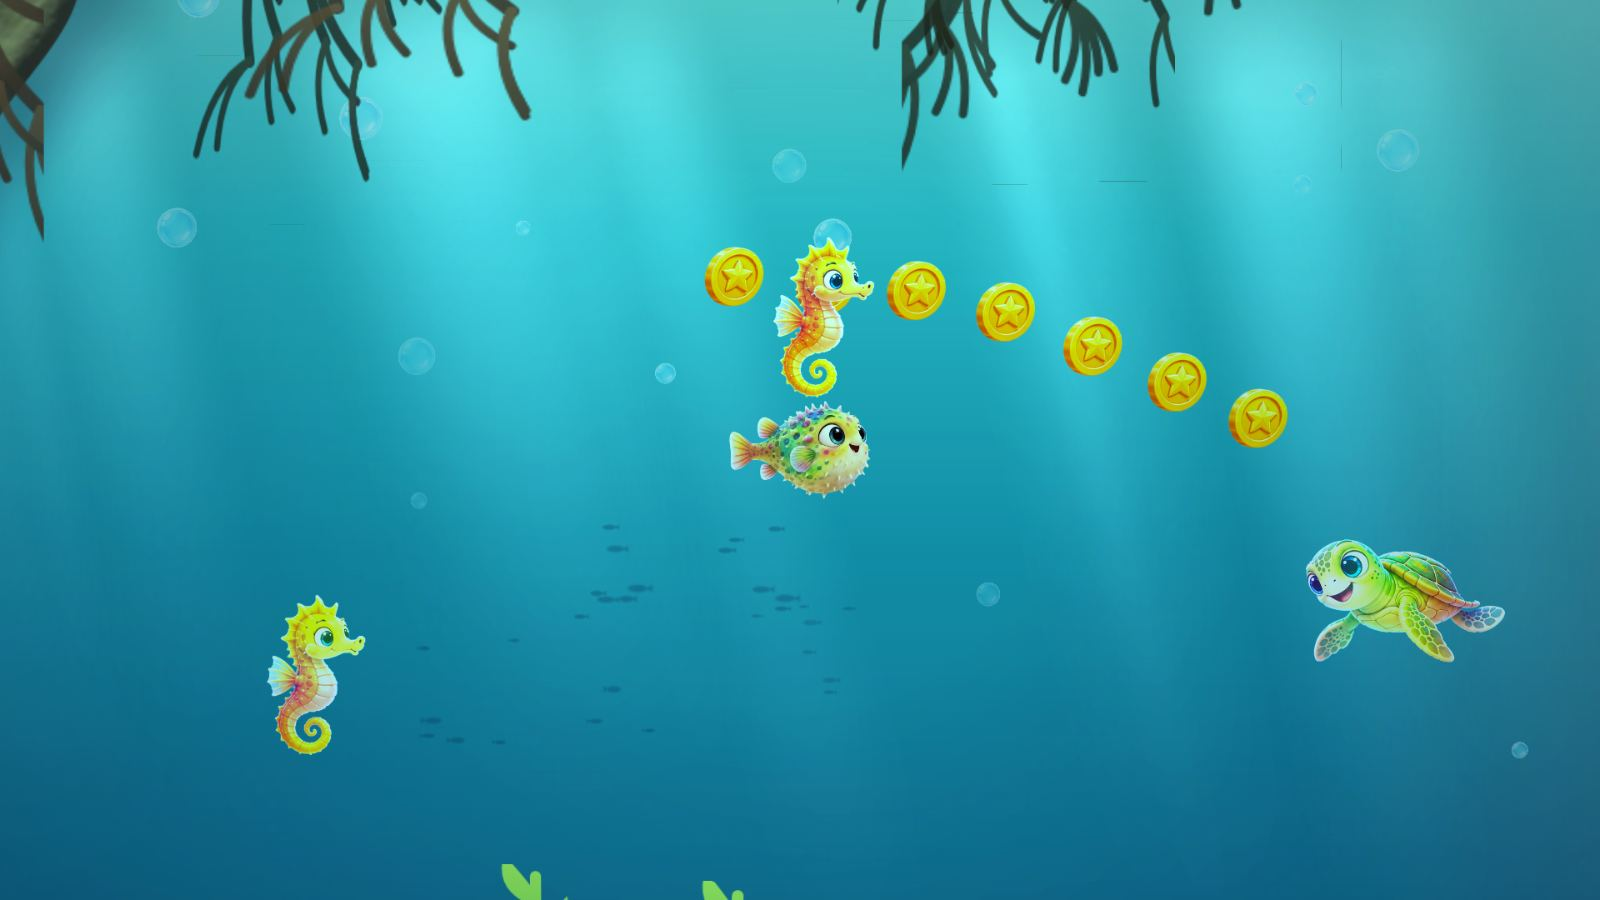
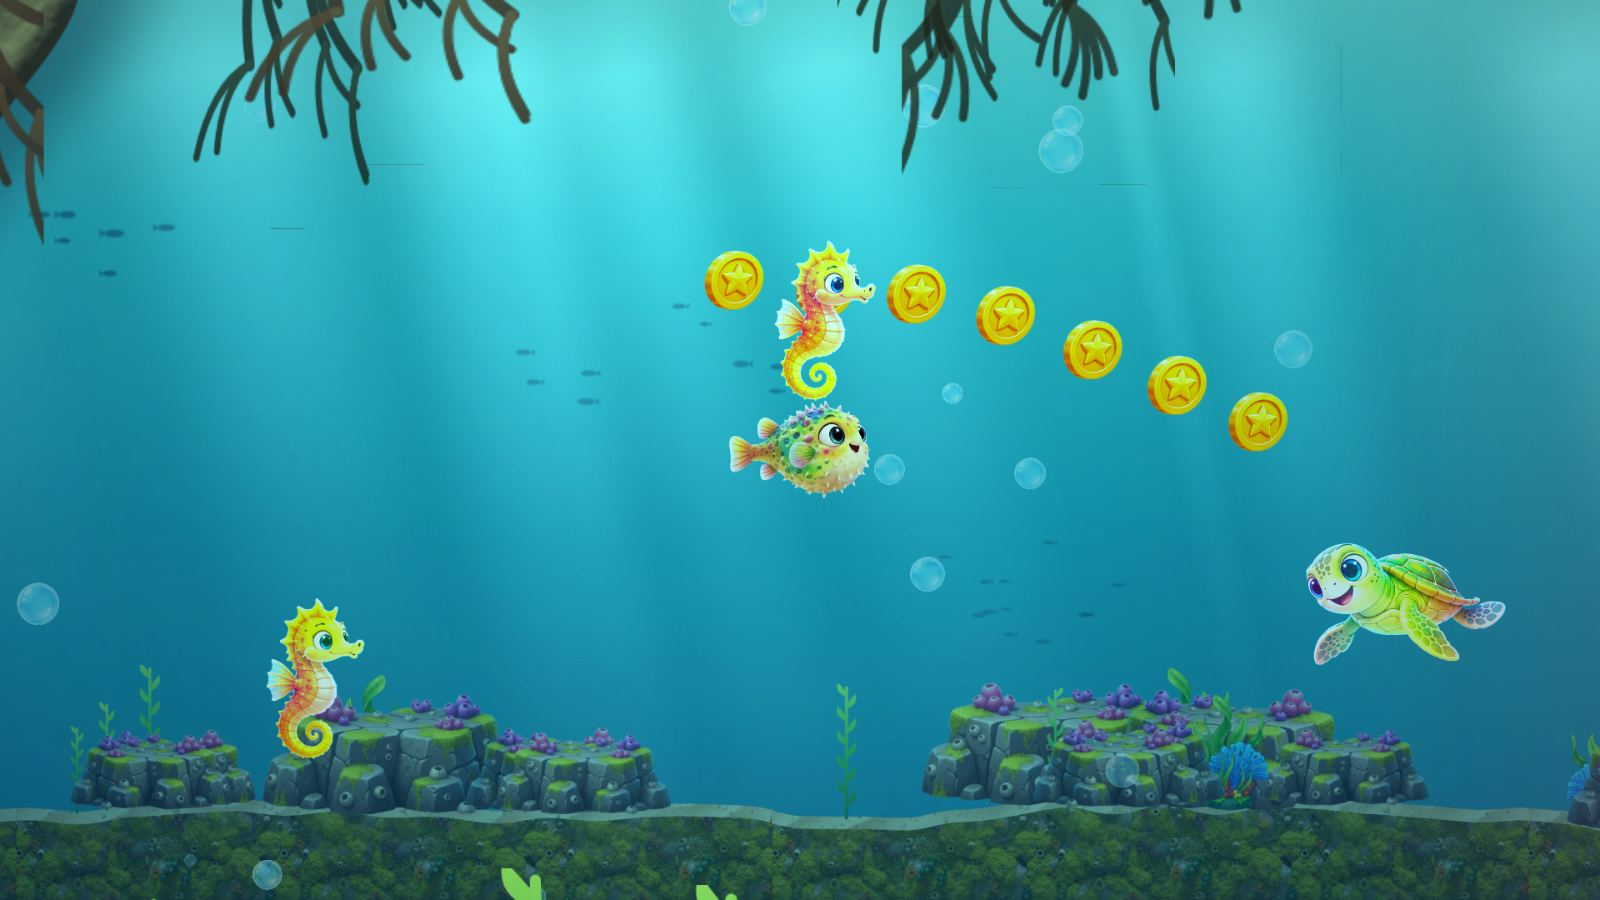
Midground from the painted art: mid reef and back-play layers of real coral, rock and kelp on textured ground (spec 10.10)

diff --git a/game/level/MidLayers.js b/game/level/MidLayers.js
@@ -1,0 +1,161 @@
+import Phaser from 'phaser';
+import { biomeBlendAt, floorY } from './biomes.js';
+import { MID_LAYERS } from './backLayersTable.js';
+import { layerGroundY, groundLine, mix, rng } from './backLayersMath.js';
+import { sunlightAt } from '../fx/causticsMath.js';
+import { makeFade } from './BackLayers.js';
+
+/**
+ * Midground (spec 10.10 "mid reef" 0.5 and "back play" 0.8): a reef behind the play plane
+ * built from the game's own painted art, so it looks like the same world further away —
+ * the rock and sand textures for the ground, the coral, rock and kelp sprites standing on
+ * it — never drawn primitives.
+ *
+ * Baked once per 1024-px chunk of layer space (seeded, so the same place always looks the
+ * same), placed as plain images that slide at the layer's parallax; at most one chunk is
+ * baked per frame. Decor is only placed where it fits inside its chunk (no cut-off
+ * sprites), the ground line is one continuous curve across chunks, and each chunk's ground
+ * fades out at the bottom (no slabs). Fogged toward the biome's water colour by tint.
+ *
+ *   create():  this.midLayers = new MidLayers(this)
+ *   update():  this.midLayers.update(camX, camY)
+ */
+const CW = 1024, CHT = 512;          // chunk texture size (layer px)
+const SEA = 0x2a9fc8, SUNLIT = 0x6ad9f2, DEEP = 0x04122e;
+
+// What stands on the ground per biome: [texture key, weight, scale factor].
+const DECOR = {
+    beach: [['coral_2', 2, 0.8], ['coral_3', 2, 0.8], ['rock_1', 3, 0.6]],
+    reef: [['coral_1', 4, 1], ['coral_2', 4, 1], ['coral_3', 3, 0.95], ['rock_1', 2, 0.8], ['kelp', 1, 1.1]],
+    mangrove: [['kelp', 3, 0.8], ['coral_3', 2, 0.8], ['rock_1', 3, 0.7]],
+    kelp: [['kelp', 9, 1.4], ['rock_1', 2, 0.8], ['coral_3', 1, 0.8]],
+    blue: [['rock_1', 3, 0.9], ['coral_1', 1, 0.8]],
+    wreck: [['rock_1', 4, 0.9], ['kelp', 2, 0.9], ['coral_2', 1, 0.8]],
+    harbour: [['rock_1', 4, 0.9], ['kelp', 2, 0.8]],
+    trench: [['rock_1', 3, 0.9], ['coral_3', 1, 0.7]]
+};
+
+export default class MidLayers {
+    constructor(scene) {
+        this.scene = scene;
+        makeFade(scene);
+        this.layers = MID_LAYERS.filter(l => l.strength > 0).map(def => ({ def, chunks: new Map() }));
+    }
+
+    update(camX, camY) {
+        const scene = this.scene, W = scene.scale.width, H = scene.scale.height;
+        const cx = camX + W / 2;
+        const floor = floorY(cx);
+        const light = sunlightAt(camY + H * 0.5);
+        const deepAmount = Phaser.Math.Clamp((camY + H / 2 - 2200) / 3400, 0, 1) * 0.7;
+        let bakedThisFrame = false;
+
+        for (const l of this.layers) {
+            const d = l.def;
+            const h = H * d.height, s = h / CHT, cwS = CW * s;        // display size of a chunk
+            const lx = camX * d.scroll;                                 // layer-space camera
+            const i0 = Math.floor(lx / cwS) - 1, i1 = Math.floor((lx + W) / cwS) + 1;
+            for (const [i, c] of l.chunks) {                            // drop chunks far off screen
+                if (i < i0 - 1 || i > i1 + 1) { c.img.destroy(); c.fade.destroy(); scene.textures.remove(c.key); l.chunks.delete(i); }
+            }
+            const ground = layerGroundY({ camY, H, floor, scroll: d.scroll, vscroll: d.vscroll, rise: d.rise, surfaceGap: 220 });
+            for (let i = i0; i <= i1; i++) {
+                let c = l.chunks.get(i);
+                if (!c) {
+                    if (bakedThisFrame) continue;                       // spread baking over frames
+                    c = this.makeChunk(l, i, s, d);
+                    l.chunks.set(i, c);
+                    bakedThisFrame = true;
+                }
+                const x = i * cwS - lx;
+                const fogTo = mix(mix(SEA, c.biome.water[0], Math.min(1, c.biome.water[1] * 2)), SUNLIT, light * 0.45);
+                // Fog = the water showing through (alpha) plus a gentle shift toward its colour
+                // (tint alone can only darken, never wash out toward the water).
+                const tint = mix(mix(0xffffff, fogTo, d.fog * 0.5), DEEP, deepAmount);
+                const alpha = d.strength * (1 - d.fog * 0.6);
+                const bottom = ground + h * 0.32;
+                c.img.setPosition(x, bottom).setDisplaySize(cwS + 1, h).setTint(tint).setAlpha(alpha);
+                c.fade.setPosition(x, bottom - 2).setDisplaySize(cwS + 1, H * 0.3).setTint(mix(mix(0x6a5e52, fogTo, d.fog * 0.5), DEEP, deepAmount)).setAlpha(alpha);
+            }
+        }
+    }
+
+    makeChunk(l, i, s, d) {
+        const scene = this.scene;
+        // Which biome this chunk shows: the world x that the chunk's centre lines up with.
+        const worldX = ((i + 0.5) * CW * s) / d.scroll;
+        const biome = biomeBlendAt(worldX).a;
+        const key = `ml_${d.id}_${i}`;
+        const canvas = document.createElement('canvas');
+        canvas.width = CW; canvas.height = CHT;
+        const ctx = canvas.getContext('2d');
+        const seed = (i * 2654435761 + d.id.length * 97) >>> 0;
+        const r = rng(seed);
+        const gx0 = i * CW;
+        const topAt = x => CHT * (0.66 - 0.2 * groundLine(gx0 + x, d.id.length * 31 + 5));
+
+        // Ground: the rock texture, a sand band along the top, light from above.
+        const path = () => {
+            ctx.beginPath(); ctx.moveTo(0, CHT);
+            for (let x = 0; x <= CW; x += 8) ctx.lineTo(x, topAt(x));
+            ctx.lineTo(CW, CHT); ctx.closePath();
+        };
+        const rock = scene.textures.exists('tex_rock') ? scene.textures.get('tex_rock').getSourceImage() : null;
+        const sand = scene.textures.exists('tex_sand') ? scene.textures.get('tex_sand').getSourceImage() : null;
+        ctx.save(); path(); ctx.clip();
+        if (rock) {
+            const pat = ctx.createPattern(rock, 'repeat');
+            pat.setTransform?.(new DOMMatrix().translateSelf(-(gx0 % 512), 0).scaleSelf(0.7, 0.7));
+            ctx.fillStyle = pat;
+        } else ctx.fillStyle = '#7a6a58';
+        ctx.fillRect(0, 0, CW, CHT);
+        if (sand) {                                                       // sand on the top edge
+            const pat = ctx.createPattern(sand, 'repeat');
+            pat.setTransform?.(new DOMMatrix().translateSelf(-(gx0 % 512), 0).scaleSelf(0.6, 0.6));
+            ctx.strokeStyle = pat; ctx.lineWidth = 34; ctx.lineJoin = 'round';
+            ctx.beginPath();
+            for (let x = 0; x <= CW; x += 8) (x === 0 ? ctx.moveTo(x, topAt(x)) : ctx.lineTo(x, topAt(x)));
+            ctx.stroke();
+        }
+        const shade = ctx.createLinearGradient(0, CHT * 0.4, 0, CHT);     // lit top, darker body
+        shade.addColorStop(0, 'rgba(255,255,255,0.12)'); shade.addColorStop(0.35, 'rgba(0,0,0,0.12)'); shade.addColorStop(1, 'rgba(0,0,0,0.45)');
+        ctx.fillStyle = shade; ctx.fillRect(0, 0, CW, CHT);
+        ctx.restore();
+
+        // Decor, rooted on the ground, only where it fits inside the chunk (no cut-offs).
+        const list = DECOR[biome.id] || DECOR.reef;
+        const total = list.reduce((a, e) => a + e[1], 0);
+        const pick = () => { let k = r() * total; for (const e of list) { k -= e[1]; if (k <= 0) return e; } return list[0]; };
+        const items = [];
+        for (let n = 0; n < d.items; n++) {
+            const [tex, , f] = pick();
+            if (!scene.textures.exists(tex)) continue;
+            const img = scene.textures.get(tex).getSourceImage();
+            const hgt = CHT * d.size * f * (0.65 + r() * 0.5);
+            const wid = hgt * img.width / img.height;
+            const x = wid / 2 + 4 + r() * (CW - wid - 8);
+            items.push({ img, x, wid, hgt, flip: r() < 0.5, tex });
+        }
+        items.sort((a, b) => b.hgt - a.hgt);                              // big first, small in front
+        for (const it of items) {
+            const y = topAt(it.x) + it.hgt * (it.tex === 'kelp' ? 0.02 : 0.08);   // a little into the ground: rooted
+            ctx.save();
+            ctx.translate(it.x, y);
+            if (it.flip) ctx.scale(-1, 1);
+            ctx.drawImage(it.img, -it.wid / 2, -it.hgt, it.wid, it.hgt);
+            ctx.restore();
+        }
+
+        scene.textures.addCanvas(key, canvas);
+        const img = scene.add.image(0, 0, key).setOrigin(0, 1).setScrollFactor(0).setDepth(d.depth);
+        const fade = scene.add.image(0, 0, 'bl_fade').setOrigin(0, 0).setScrollFactor(0).setDepth(d.depth - 0.01);
+        return { key, img, fade, biome };
+    }
+
+    destroy() {
+        for (const l of this.layers) {
+            for (const c of l.chunks.values()) { c.img.destroy(); c.fade.destroy(); this.scene.textures.remove(c.key); }
+            l.chunks.clear();
+        }
+    }
+}

diff --git a/scenes/MainScene.js b/scenes/MainScene.js
@@ -10,6 +10,7 @@ import Backdrop from '../game/level/Backdrop.js';
 import WaterLight from '../game/fx/WaterLight.js';
 import ParticleLayer from '../game/fx/ParticleLayer.js';
 import BackLayers from '../game/level/BackLayers.js';
+import MidLayers from '../game/level/MidLayers.js';
 import { makeController, CONTROL_SCHEMES } from '../game/controls/index.js';
 import { getCharacter, loadSelectedId } from '../game/characters.js';
 import { WaterSurface } from '../game/level/surface.js';
@@ -72,6 +73,7 @@ export default class MainScene extends Phaser.Scene {
         this.streak = createStreak();        // coins in a row play a melody (game/music/melody.js)
         this.backdrop = new Backdrop(this, LEVEL.maxDepth);
         this.backLayers = new BackLayers(this);   // far haze, far reef, back floor (parallax)
+        this.midLayers = new MidLayers(this);     // mid reef and back-play layer from the painted art
         this.waterLight = new WaterLight(this);   // light shafts, caustics, depth grade
         // What has been collected stays collected (per chunk bitfields, see worldState.js).
         // Playing together, the room has its own memory, separate from the solo journey.
@@ -619,6 +621,7 @@ export default class MainScene extends Phaser.Scene {
         this.level.animate(time / 1000, view, speed);
         this.backdrop.update(this.camX, this.camY, this.camX - prevX, this.camY - prevY, this.surface);
         this.backLayers.update(this.camX, this.camY);
+        this.midLayers.update(this.camX, this.camY);
         this.waterLight.update();
         this.collect();
         this.maxDepth = Math.max(this.maxDepth, this.depthMeters());

diff --git a/game/level/backLayersTable.js b/game/level/backLayersTable.js
@@ -16,6 +16,18 @@ export const BACK_LAYERS = [
     { id: 'back', scroll: 0.45, fog: 0.3, height: 0.3, rise: 120, density: 1, blur: 2, depth: -17.5, strength: 0 }
 ];
 
+// Midground (spec 10.10 "mid reef" and "back play"): the game's own painted art — rock and
+// sand textures for the ground, the coral, rock and kelp sprites on top — baked in
+// world-anchored chunks, scaled by distance and fogged toward the water.
+//   scroll   horizontal parallax; vertical uses vscroll
+//   fog      0..1 toward the water colour      height  chunk height as a share of the screen
+//   rise     ground above the seabed (px)       items   decor per 1024-px chunk
+//   size     decor size (share of chunk height) depth   Phaser depth (shafts are at -12)
+export const MID_LAYERS = [
+    { id: 'mid', scroll: 0.6, vscroll: 0.7, fog: 0.58, height: 0.42, rise: 260, items: 9, size: 0.42, depth: -15, strength: 1 },
+    { id: 'backplay', scroll: 0.82, vscroll: 0.88, fog: 0.36, height: 0.4, rise: 60, items: 7, size: 0.55, depth: -10, strength: 1 }
+];
+
 // Silhouette kinds (big soft shapes only — the background has no micro detail, spec 10.10b).
 //   ridge    ground line roughness/height
 //   shapes   which shapes stand on the ground, and how many per texture (at density 1)

diff --git a/game/level/backLayersMath.js b/game/level/backLayersMath.js
@@ -69,3 +69,19 @@ export function mix(c1, c2, t) {
 export function layerTint(rock, water, fog, deep = 0x04122e, deepAmount = 0) {
     return mix(mix(rock, water, fog), deep, deepAmount);
 }
+
+/** Smooth 1D value noise (0..1), continuous for any x: one ground line across all chunks. */
+export function noise1(x, seed = 1, period = 260) {
+    const h = i => {
+        let t = Math.imul((i | 0) ^ Math.imul(seed, 0x9e3779b1), 0x85ebca6b);
+        t ^= t >>> 13; t = Math.imul(t, 0xc2b2ae35); t ^= t >>> 16;
+        return (t >>> 0) / 4294967296;
+    };
+    const u = x / period, i = Math.floor(u), f = u - i, s = f * f * (3 - 2 * f);
+    return h(i) + (h(i + 1) - h(i)) * s;
+}
+
+/** A few octaves of noise1 for a natural ground line (0..1). */
+export function groundLine(x, seed = 1) {
+    return 0.55 * noise1(x, seed, 520) + 0.3 * noise1(x, seed + 7, 190) + 0.15 * noise1(x, seed + 13, 70);
+}

diff --git a/game/level/BackLayers.js b/game/level/BackLayers.js
@@ -108,7 +108,7 @@ export default class BackLayers {
 // --- baking --------------------------------------------------------------------
 
 /** A vertical fade (opaque at the top, gone at the bottom), shared by every layer's ground. */
-function makeFade(scene) {
+export function makeFade(scene) {
     if (scene.textures.exists('bl_fade')) return;
     const c = document.createElement('canvas');
     c.width = 4; c.height = 256;
